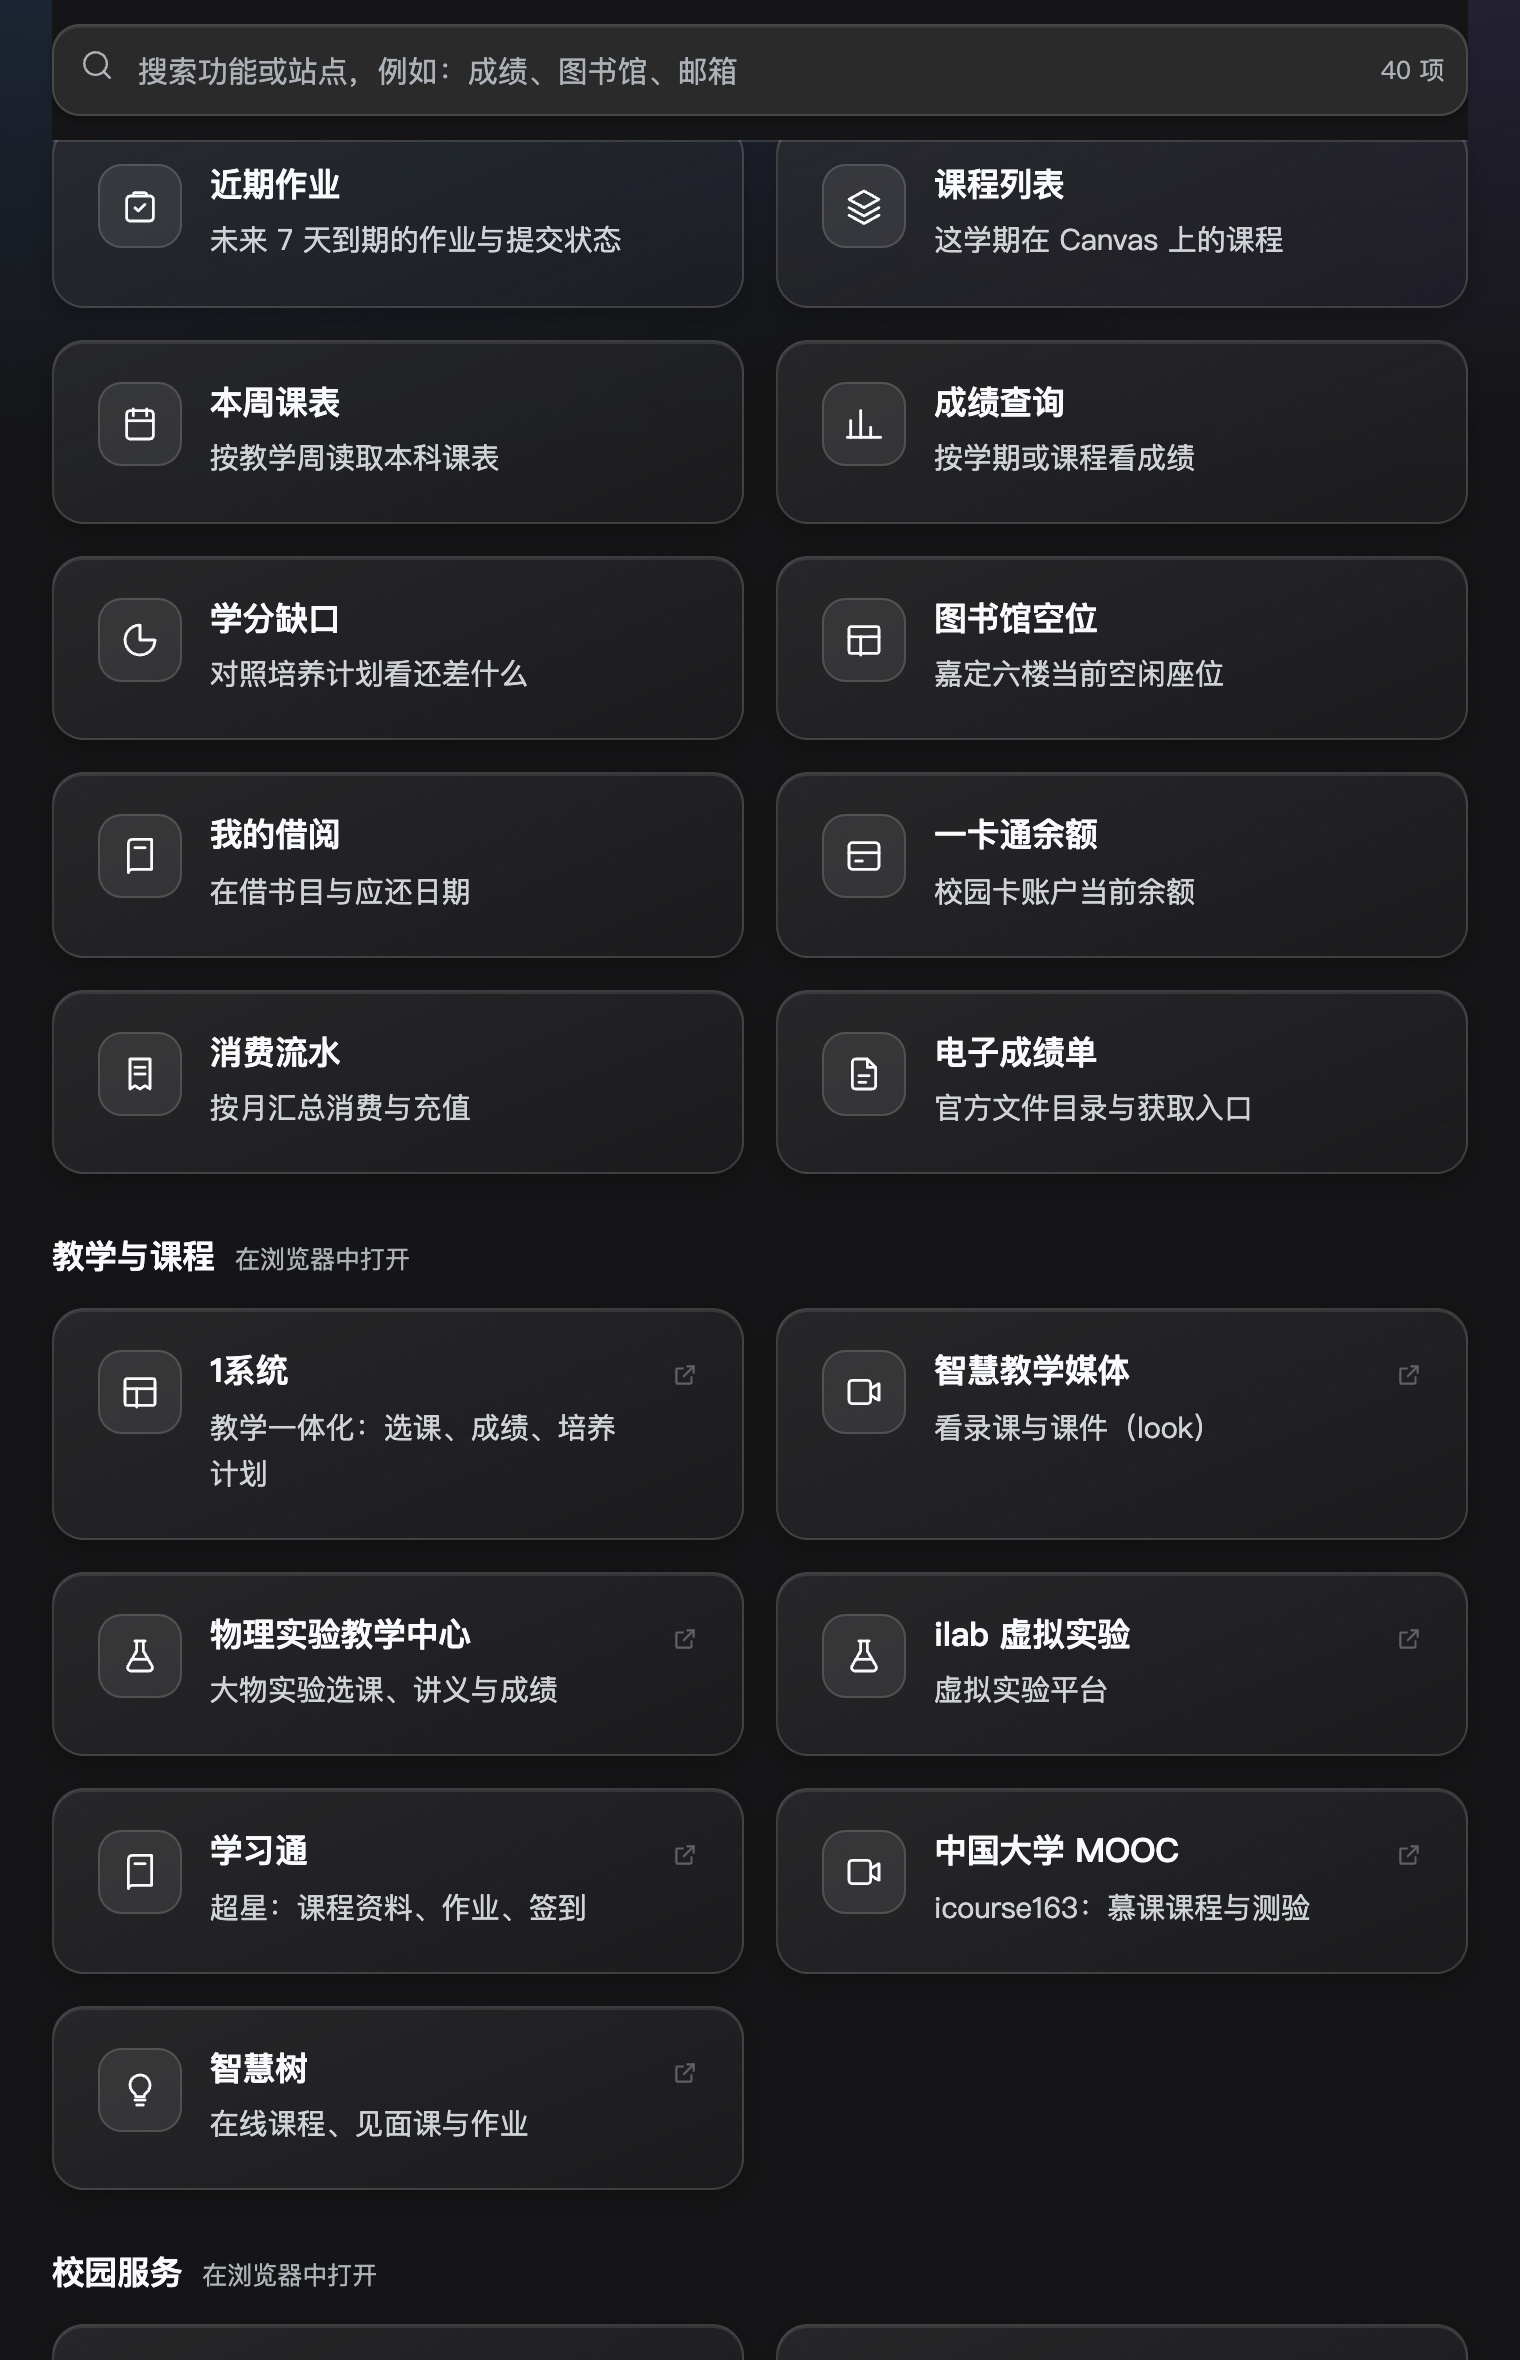
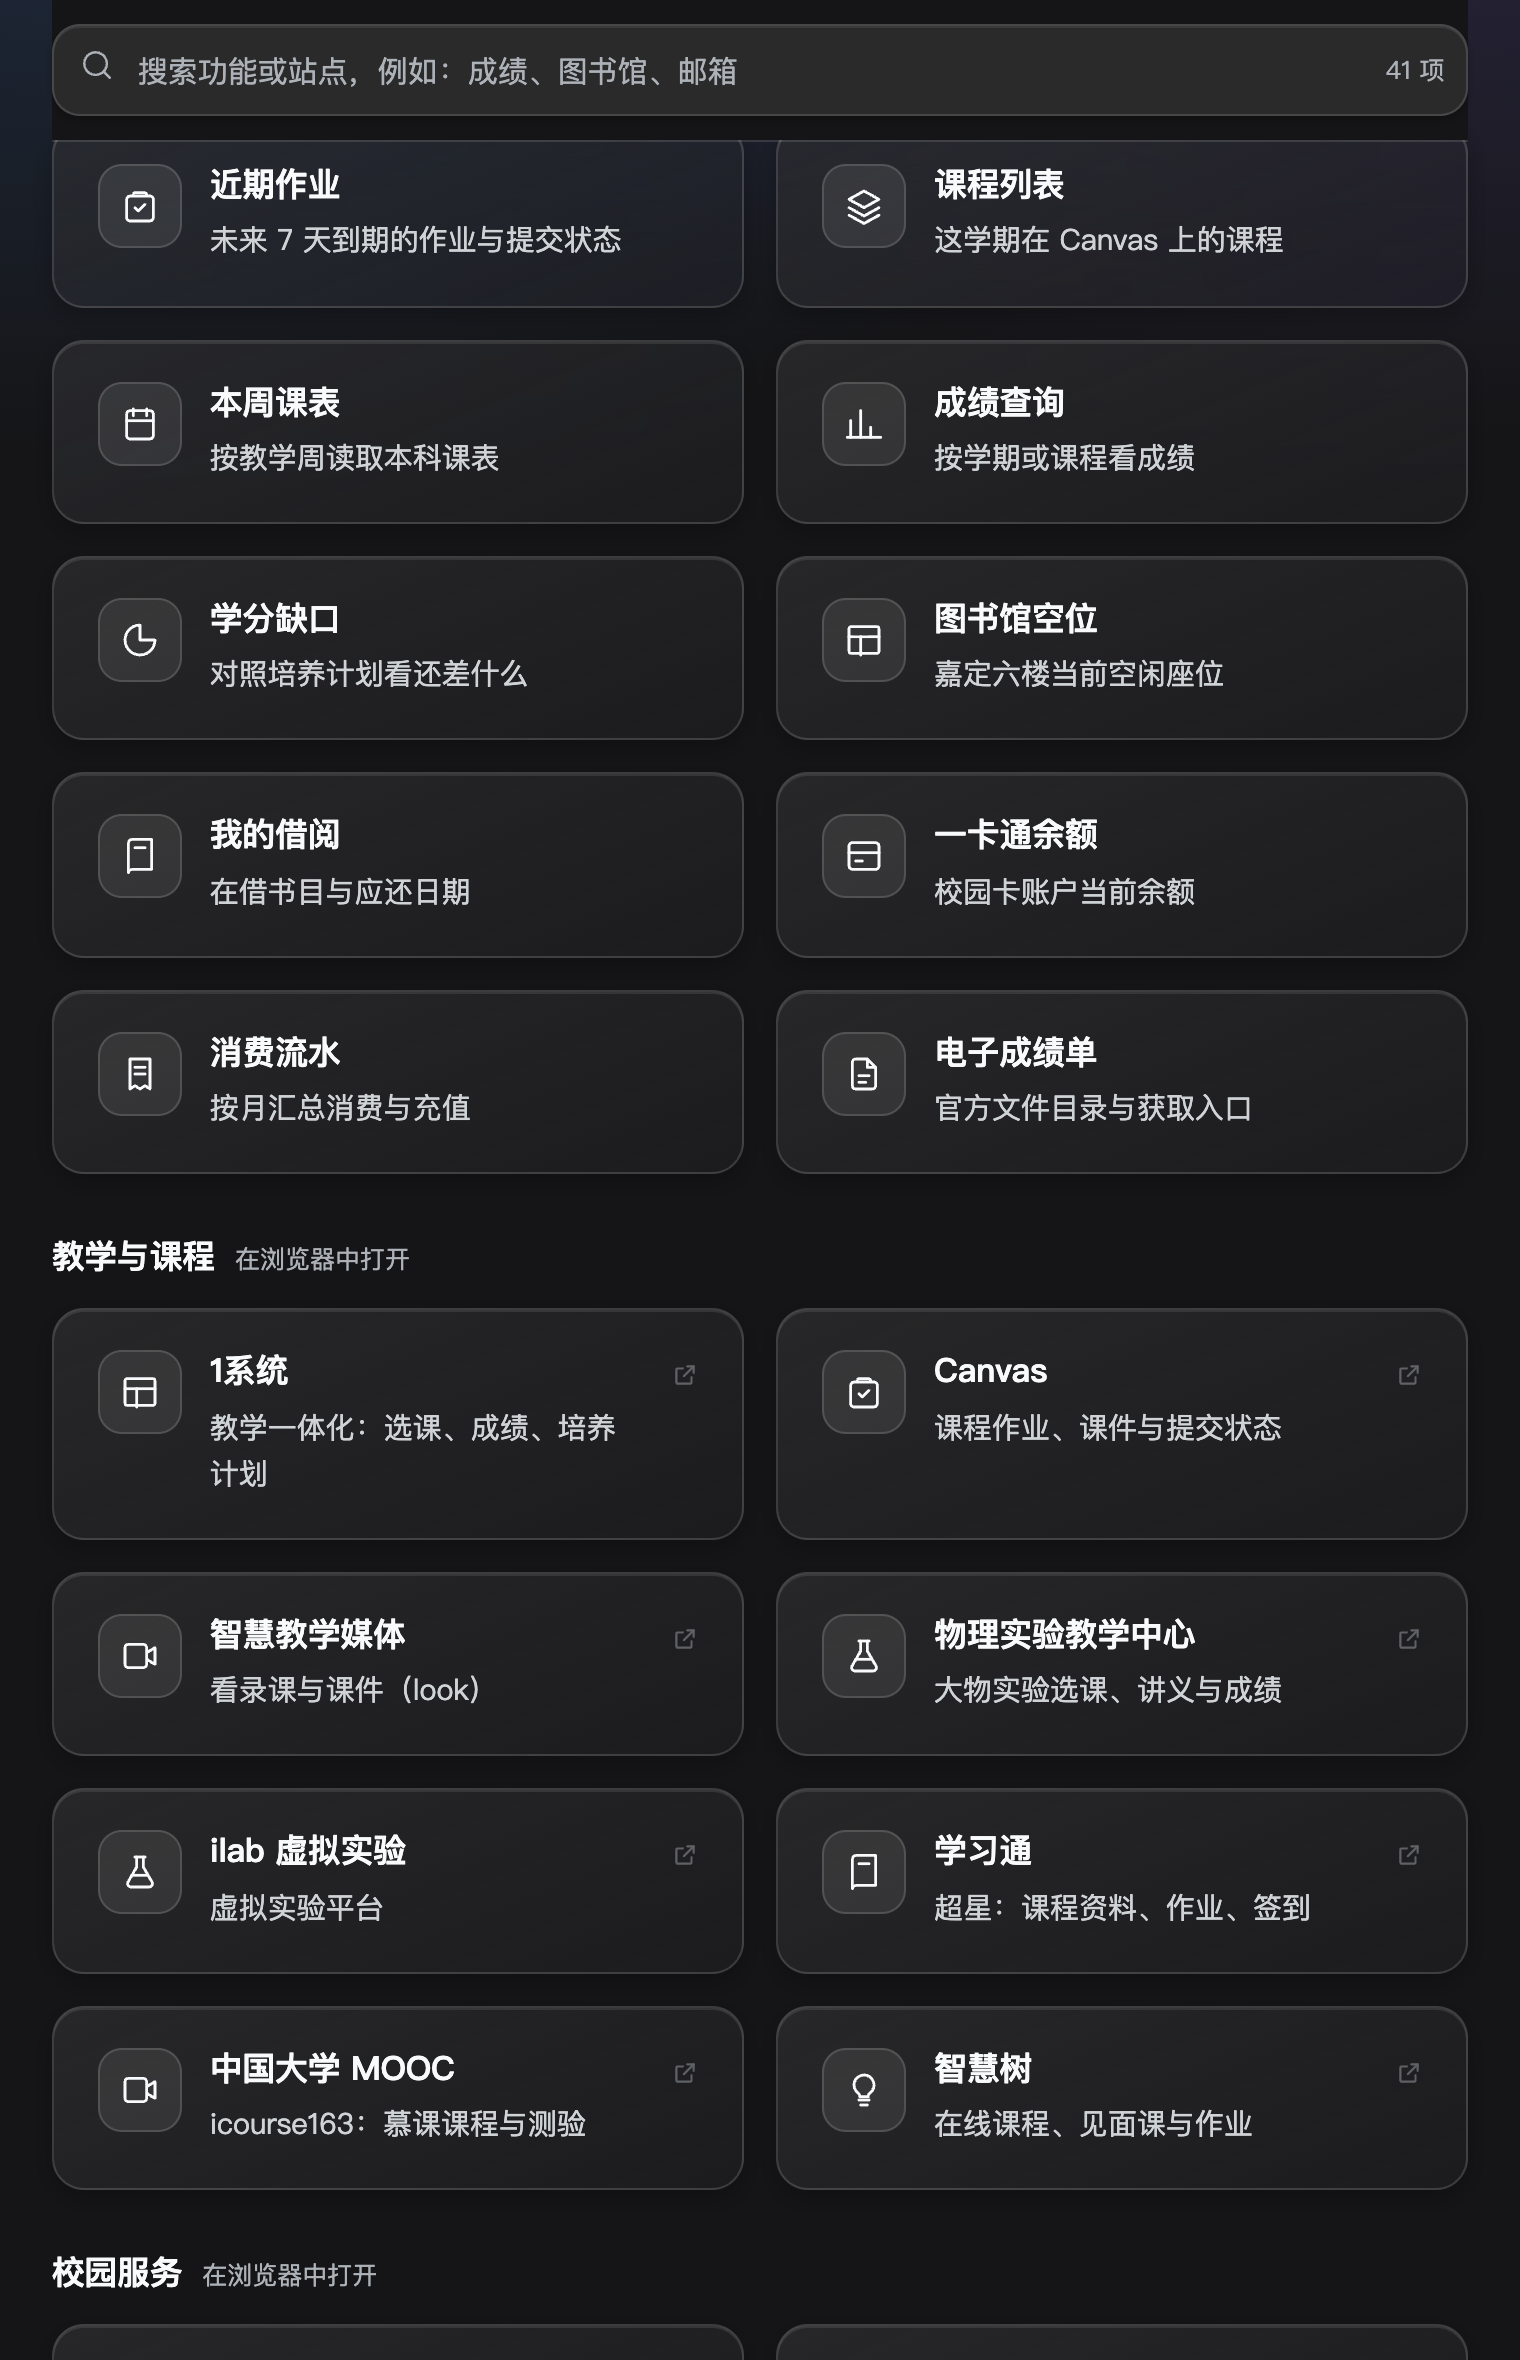
feat: 加入 Canvas 入口卡

diff --git a/lib/client.js b/lib/client.js
@@ -62,6 +62,7 @@ window.__ModuleLoader__.load({
 				note: "在浏览器中打开",
 				items: [
 					{ icon: "layout", title: "1系统", hint: "教学一体化：选课、成绩、培养计划", url: "https://1.tongji.edu.cn" },
+					{ icon: "clipboard", title: "Canvas", hint: "课程作业、课件与提交状态", url: "https://canvas.tongji.edu.cn", keywords: "canvas lms 作业 课程 提交" },
 					{ icon: "video", title: "智慧教学媒体", hint: "看录课与课件（look）", url: "https://look.tongji.edu.cn" },
 					{ icon: "flask", title: "物理实验教学中心", hint: "大物实验选课、讲义与成绩", url: "https://mphylab.tongji.edu.cn/page/home/index" },
 					{ icon: "flask", title: "ilab 虚拟实验", hint: "虚拟实验平台", url: "https://www.ilab-x.com/" },
